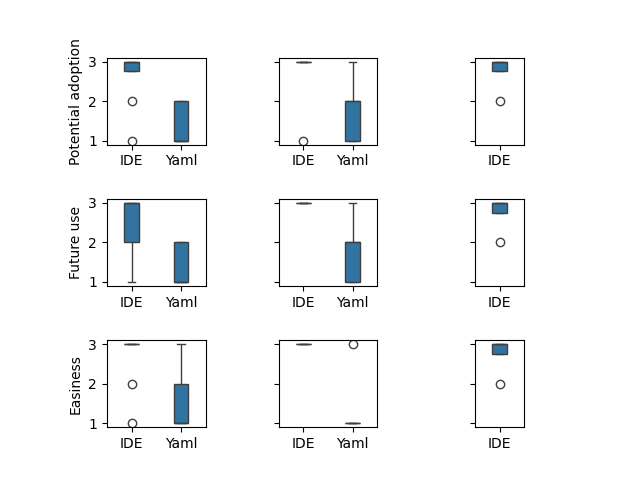
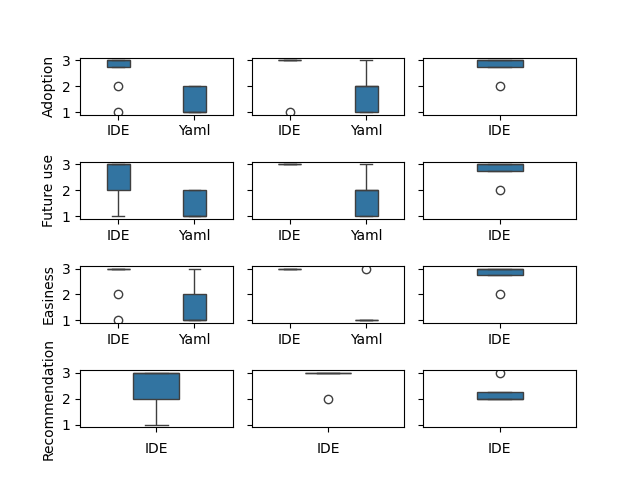
merge M24 intention to use with recommendation to be all in one picture

diff --git a/M24_intention_to_use_sodalite_subplots_v2.py b/M24_intention_to_use_sodalite_subplots_v2.py
@@ -1,0 +1,145 @@
+import pandas as pd
+import seaborn as sns
+import matplotlib.pyplot as plt
+
+
+# Set the desired width in pixels
+width_in_pixels = 1000
+
+# Calculate the required figure width in inches based on the DPI
+dpi = width_in_pixels / 10  # Assuming 10 inches in width
+fig_width = width_in_pixels / dpi
+
+#way 1 # gridspec https://matplotlib.org/stable/gallery/subplots_axes_and_figures/subplots_demo.html
+
+fig = plt.figure()
+gs = fig.add_gridspec(4, 3, hspace=0.825, wspace=0.125)
+axes = gs.subplots(sharey=True)
+#way 2
+# Create a single figure with two subplots sharing the same y-axis
+#fig, axes = plt.subplots(2, 3, figsize=(fig_width, 4), dpi=dpi, sharey=True)  # Adjust the height as needed
+
+df_perf = pd.read_csv('csv/Intention_to_use_non_experts.CSV', index_col=False)
+
+sns.boxplot(y=df_perf["Intention to use"], x=df_perf["Editor"], width=0.3, ax=axes[0, 0])
+axes[0, 0].set_xticklabels(axes[0, 0].get_xticklabels(), rotation=0, ha="center")
+axes[0, 0].set_aspect(0.8)
+axes[0, 0].set_ylabel('Adoption')  # Add this line to set the y-axis label
+axes[0, 0].set(xlabel=None)
+
+
+
+df_perf = pd.read_csv('csv/Intention_to_use_experts.CSV', index_col=False)
+
+sns.boxplot(y=df_perf["Intention to use"], x=df_perf["Editor"], width=0.3, ax=axes[0, 1])
+axes[0, 1].set_xticklabels(axes[0, 1].get_xticklabels(), rotation=0, ha="center")
+axes[0, 1].set_aspect(0.8)
+axes[0, 1].set_ylabel('Adoption')  # Add this line to set the y-axis label
+axes[0, 1].set(xlabel=None)
+
+df_perf = pd.read_csv('csv/Intention_to_use_use_case_owners.CSV', index_col=False)
+
+sns.boxplot(y=df_perf["Intention to use"], x=df_perf["Editor"], width=0.3, ax=axes[0, 2])
+axes[0, 2].set_xticklabels(axes[0, 2].get_xticklabels(), rotation=0, ha="center")
+axes[0, 2].set_aspect(0.8)
+axes[0, 2].set_ylabel('Adoption')  # Add this line to set the y-axis label
+axes[0, 2].set(xlabel=None)
+
+
+
+df_perf = pd.read_csv('csv/UsingTheEditorAtACompany_nonexperts.CSV', index_col=False)
+sns.boxplot(y=df_perf["Intention to use"], x=df_perf["Editor"], width=0.3, ax=axes[1, 0])
+axes[1, 0].set_xticklabels(axes[1, 0].get_xticklabels(), rotation=0, ha="center")
+axes[1, 0].set_aspect(0.8)
+axes[1, 0].set_ylabel('Future use')  # Add this line to set the y-axis label
+axes[1, 0].set(xlabel=None)
+
+df_perf = pd.read_csv('csv/UsingTheEditorAtACompany_experts.CSV', index_col=False)
+sns.boxplot(y=df_perf["Intention to use"], x=df_perf["Editor"], width=0.3, ax=axes[1, 1])
+axes[1, 1].set_xticklabels(axes[1, 1].get_xticklabels(), rotation=0, ha="center")
+axes[1, 1].set_aspect(0.8)
+axes[1, 1].set_ylabel('Future use')  # Add this line to set the y-axis label
+axes[1, 1].set(xlabel=None)
+
+df_perf = pd.read_csv('csv/UsingTheEditorAtCompany_UseCaseOwners.CSV', index_col=False)
+sns.boxplot(y=df_perf["Intention to use"], x=df_perf["Editor"], width=0.3, ax=axes[1, 2])
+axes[1, 2].set_xticklabels(axes[1, 2].get_xticklabels(), rotation=0, ha="center")
+axes[1, 2].set_aspect(0.8)
+axes[1, 2].set_ylabel('Future use')  # Add this line to set the y-axis label
+axes[1, 2].set(xlabel=None)
+
+
+
+df_perf = pd.read_csv('csv/Easiness_in_becoming_skilled_nonexperts.CSV', index_col=False)
+sns.boxplot(y=df_perf["Intention to use"], x=df_perf["Editor"], width=0.3, ax=axes[2, 0])
+axes[2, 0].set_xticklabels(axes[2, 0].get_xticklabels(), rotation=0, ha="center")
+axes[2, 0].set_aspect(0.8)
+axes[2, 0].set_ylabel('Easiness')  # Add this line to set the y-axis label
+axes[2, 0].set(xlabel=None)
+
+df_perf = pd.read_csv('csv/Easiness_in_becoming_skilled_experts.CSV', index_col=False)
+sns.boxplot(y=df_perf["Intention to use"], x=df_perf["Editor"], width=0.3, ax=axes[2, 1])
+axes[2, 1].set_xticklabels(axes[2, 1].get_xticklabels(), rotation=0, ha="center")
+axes[2, 1].set_aspect(0.8)
+axes[2, 1].set_ylabel('Easiness')  # Add this line to set the y-axis label
+axes[2, 1].set(xlabel=None)
+
+df_perf = pd.read_csv('csv/Easiness_in_becoming_skilled_usecase.CSV', index_col=False)
+sns.boxplot(y=df_perf["Intention to use"], x=df_perf["Editor"], width=0.3, ax=axes[2, 2])
+axes[2, 2].set_xticklabels(axes[2, 2].get_xticklabels(), rotation=0, ha="center")
+axes[2, 2].set_aspect(0.8)
+axes[2, 2].set_ylabel('Easiness')  # Add this line to set the y-axis label
+axes[2, 2].set(xlabel=None)
+
+
+# Adjust layout for better spacing
+#fig.tight_layout()
+#fig.subplots_adjust(wspace=0.125)  # Adjust the value for your desired spacing
+
+# Save the figure
+
+
+
+df_perf = pd.read_csv('csv/Recommending_it1_non_experts.CSV', index_col=False)
+
+sns.boxplot(y=df_perf["Recommendation"], x=df_perf["Users"], width=0.3, ax=axes[3, 0])
+axes[3, 0].set_xticklabels(axes[3, 0].get_xticklabels(), rotation=0, ha="center")
+axes[3, 0].set_aspect(0.8)
+axes[3, 0].set_ylabel('Recommendation')  # Add this line to set the y-axis label
+axes[3, 0].set(xlabel='IDE')
+axes[3, 0].set_xticklabels([])
+
+
+df_perf = pd.read_csv('csv/Recommending_it1_tosca_experts.CSV', index_col=False)
+
+sns.boxplot(y=df_perf["Recommendation"], x=df_perf["Users"], width=0.3,  ax=axes[3, 1])
+axes[3, 1].set_xticklabels(axes[3, 1].get_xticklabels(), rotation=0, ha="center")
+axes[3, 1].set_aspect(0.8)
+axes[3, 1].set_xticklabels([])
+
+axes[3, 1].set_ylabel('Recommendation')  # Add this line to set the y-axis label
+axes[3, 1].set(xlabel='IDE')
+
+df_perf = pd.read_csv('csv/Recommending_it1_use_case_owners.CSV', index_col=False)
+
+sns.boxplot(y=df_perf["Recommendation"], x=df_perf["Users"], width=0.3,  ax=axes[3, 2])
+axes[3, 2].set_xticklabels(axes[3, 2].get_xticklabels(), rotation=0, ha="center")
+axes[3, 2].set_aspect(0.8)
+axes[3, 2].set_xticklabels([])
+axes[3, 2].set_ylabel('Recommendation')  # Add this line to set the y-axis label
+axes[3, 2].set(xlabel='IDE')
+
+
+# Read data and create box plots
+for i in range(4):
+    for j in range(3):
+       axes[i, j].set_aspect('auto', adjustable='datalim')  # Set aspect ratio for x-axis
+   #     axes[i, j].set_aspect(0.4)
+
+fig.align_ylabels()
+fig.tight_layout()
+fig.subplots_adjust(wspace=0.0)  # Adjust the value for your desired spacing in the x-axis
+
+
+plt.savefig("pngboxplots_subplots/M24_Intention_of_use.png", dpi=dpi)
+plt.show()
